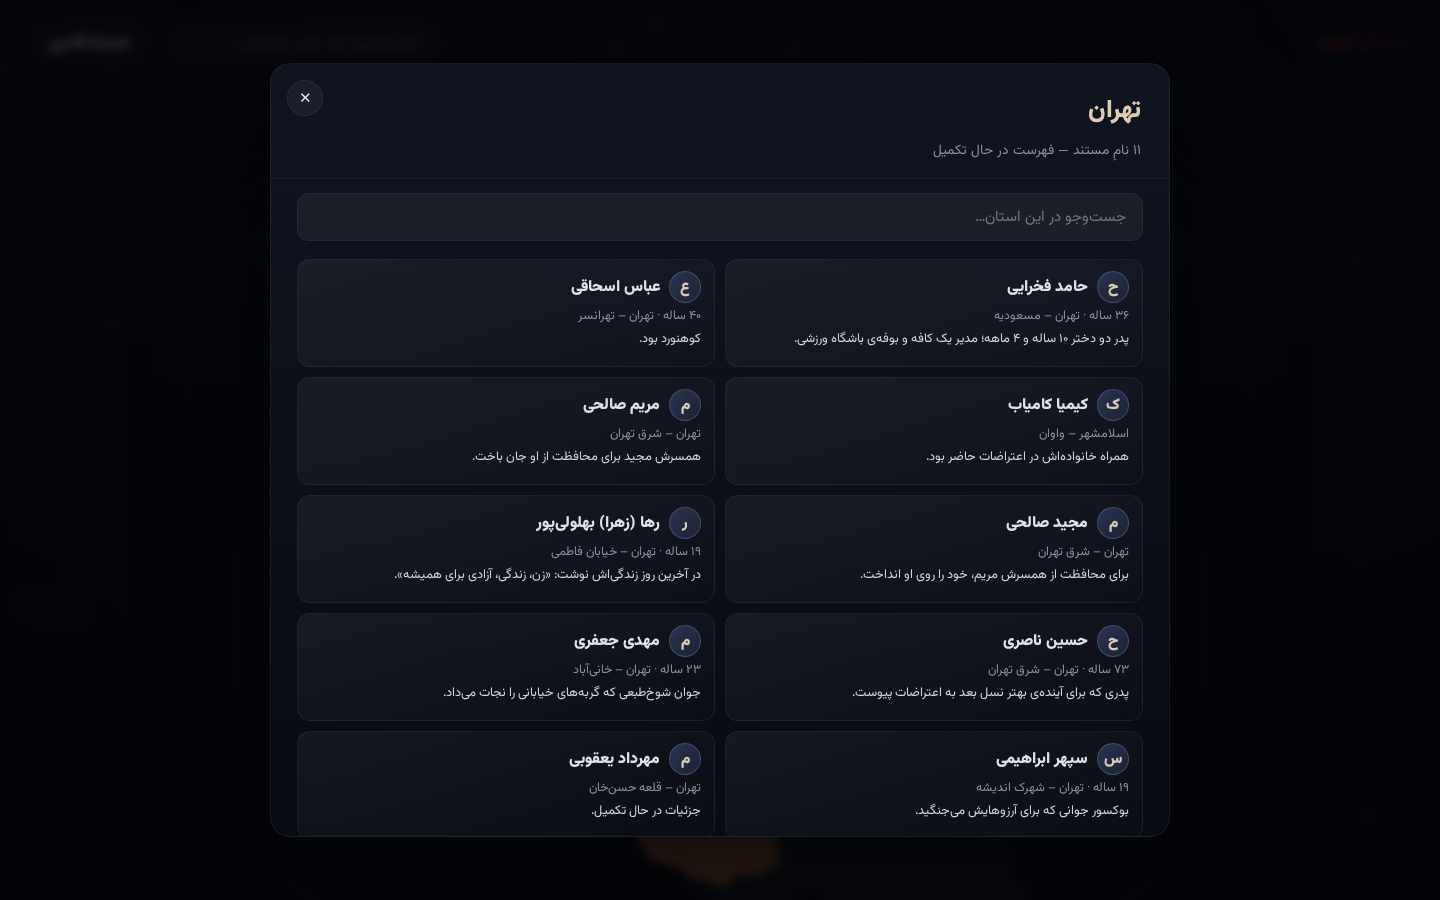
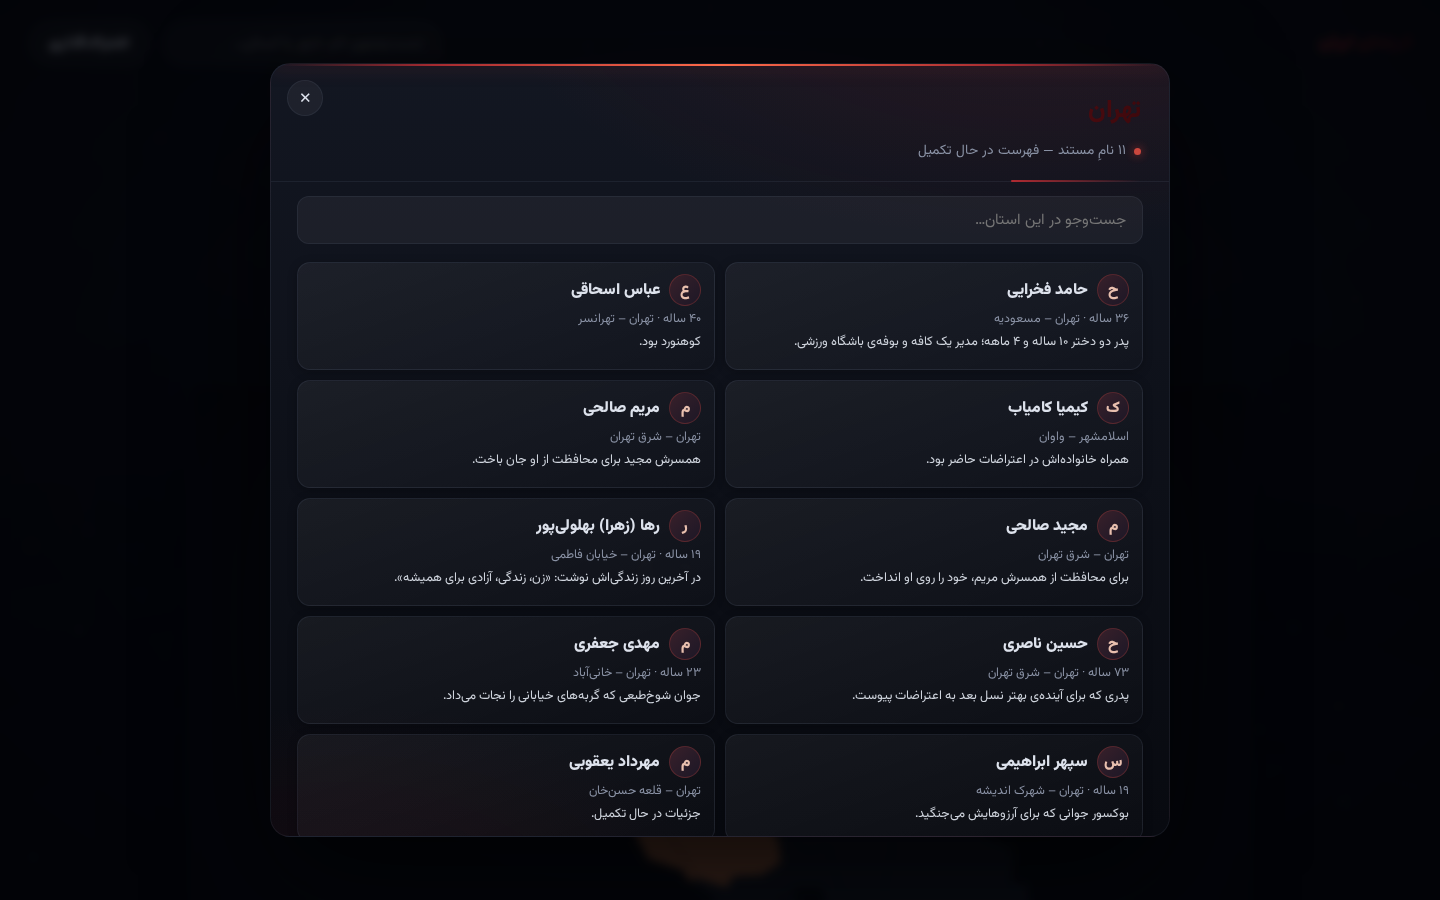
ارتقای پاپآپها و افزودن بهاره شاهمهری
- پنجرهی استان: پسزمینهی گرادیانی سرخ، نوار نورانی بالای پنجره، نام استان با
  گرادیان سرخ، نشانگر تپنده و ورود پلکانی کارتها
- پنجرهی یادنامه: هالهی سرخ، حلقهی نور تپنده دور آواتار، نام با گرادیان سرخ و
  جدول اطلاعات (تولد، محل زندگی، محل شهادت، شغل، تاریخ، سن)
- افزودن بهاره شاهمهری (۱۷ ساله، نیشابور) با عکس و اطلاعات کامل از
  گزارش سازمان حقوق بشر ایران؛ ساختار ویدیو هم آماده است
- بازآزمایی کارایی با ۵۰۰۰ نام: بدون بههمریختگی

diff --git a/css/style.css b/css/style.css
@@ -330,3 +330,111 @@ body {
 @media (prefers-reduced-motion: reduce) {
   * { animation: none !important; transition: none !important; }
 }
+
+/* =====================================================================
+   ارتقای پاپآپها — زندهتر، ولی با حالوهوای سوگ و انتقام
+   ===================================================================== */
+
+/* ---------- پنجرهی استان ---------- */
+.modal-dialog {
+  background:
+    radial-gradient(900px 420px at 85% -10%, rgba(150, 26, 32, .16) 0%, transparent 60%),
+    radial-gradient(700px 380px at 8% 110%, rgba(120, 18, 24, .12) 0%, transparent 55%),
+    linear-gradient(180deg, rgba(19, 23, 34, .99), rgba(8, 10, 16, .99));
+}
+.modal-dialog::before {
+  content: ""; position: absolute; top: 0; left: 0; right: 0; height: 2px; z-index: 4;
+  background: linear-gradient(90deg, transparent 0%, #a52a30 18%, #ff6b4a 50%, #a52a30 82%, transparent 100%);
+  box-shadow: 0 0 18px rgba(214, 58, 54, .55);
+}
+.modal-head { position: relative; }
+.modal-head::after {
+  content: ""; position: absolute; right: 28px; bottom: -1px; width: 130px; height: 2px;
+  background: linear-gradient(90deg, #b02a31, rgba(176, 42, 49, 0));
+  border-radius: 2px;
+}
+.modal-province {
+  background: linear-gradient(115deg, #d0493f 0%, #8a181f 55%, #3c080c 100%);
+  -webkit-background-clip: text; background-clip: text; color: transparent;
+}
+.modal-count { display: inline-flex; align-items: center; gap: 8px; }
+.modal-count::before {
+  content: ""; width: 7px; height: 7px; border-radius: 50%;
+  background: #d0493f; box-shadow: 0 0 10px rgba(214, 58, 54, .8);
+  animation: countPulse 2.4s ease-in-out infinite;
+}
+@keyframes countPulse { 0%,100% { opacity: .5; } 50% { opacity: 1; } }
+
+/* ---------- کارتهای نام: ورود پلکانی و هاور زنده ---------- */
+.v-content.anim .v-cell {
+  animation: cellIn .5s cubic-bezier(.2,.8,.2,1) both;
+  animation-delay: calc(min(var(--i, 0), 30) * 26ms);
+}
+@keyframes cellIn {
+  from { opacity: 0; transform: translateY(12px) scale(.97); }
+  to { opacity: 1; transform: none; }
+}
+.v-cell {
+  background: linear-gradient(160deg, rgba(255,255,255,.055), rgba(255,255,255,.014));
+  border: 1px solid rgba(150, 170, 205, .1);
+  box-shadow: 0 2px 10px rgba(0,0,0,.25);
+}
+.v-cell:hover {
+  border-color: rgba(208, 73, 63, .55);
+  box-shadow: 0 12px 30px rgba(0,0,0,.5), 0 0 0 1px rgba(208,73,63,.22), 0 0 22px rgba(208, 73, 63, .14);
+  transform: translateY(-3px);
+}
+.v-cell:hover .v-name { color: #f2d0c8; }
+.v-avatar {
+  background: linear-gradient(135deg, #38202a, #1c1726);
+  border: 1px solid rgba(208, 73, 63, .28);
+  color: #e8bfae;
+}
+.v-cell:hover .v-avatar { box-shadow: 0 0 14px rgba(208, 73, 63, .4); }
+
+/* ---------- پنجرهی یادنامه ---------- */
+.detail-dialog {
+  background:
+    radial-gradient(420px 260px at 50% -8%, rgba(150, 26, 32, .2) 0%, transparent 62%),
+    linear-gradient(180deg, rgba(22, 25, 36, .99), rgba(9, 11, 18, .99));
+  border: 1px solid rgba(150, 170, 205, .12);
+  box-shadow: 0 40px 120px rgba(0,0,0,.8), 0 0 90px rgba(150, 26, 32, .14);
+}
+.detail-avatar {
+  animation: avatarPulse 3.2s ease-in-out infinite;
+  background: linear-gradient(135deg, #3a2430, #1a1526);
+  border-color: rgba(208, 73, 63, .35);
+  color: #ecc2b2;
+}
+@keyframes avatarPulse {
+  0%,100% { box-shadow: 0 0 0 0 rgba(208, 73, 63, .26), 0 0 0 6px rgba(180,200,230,.05); }
+  50% { box-shadow: 0 0 0 9px rgba(208, 73, 63, .05), 0 0 26px rgba(208, 73, 63, .32), 0 0 0 6px rgba(180,200,230,.05); }
+}
+.detail-name {
+  background: linear-gradient(115deg, #d0493f 0%, #8a181f 55%, #3c080c 100%);
+  -webkit-background-clip: text; background-clip: text; color: transparent;
+}
+
+/* جدول اطلاعات (تولد، محل زندگی، محل شهادت، شغل…) */
+.detail-info { display: flex; flex-wrap: wrap; justify-content: center; gap: 8px; margin: 0 0 6px; }
+.detail-info:empty { display: none; }
+.info-chip {
+  display: flex; flex-direction: column; align-items: center; gap: 1px;
+  background: rgba(255,255,255,.035); border: 1px solid var(--line); border-radius: 12px;
+  padding: 8px 14px; min-width: 88px;
+  transition: border-color .2s, background .2s;
+}
+.info-chip:hover { border-color: rgba(208, 73, 63, .35); background: rgba(208, 73, 63, .06); }
+.info-k { font-size: .66rem; color: var(--faint); letter-spacing: .3px; }
+.info-v { font-size: .84rem; font-weight: 700; color: var(--ink); }
+
+/* قاب رسانه */
+.media-photo {
+  border: 1px solid rgba(150,170,205,.14);
+  box-shadow: 0 18px 50px rgba(0,0,0,.55), 0 0 40px rgba(150, 26, 32, .12);
+}
+.media-video { border: 1px solid rgba(150,170,205,.14); box-shadow: 0 18px 50px rgba(0,0,0,.55); }
+
+/* امضای یادبود */
+.detail-tribute { color: #b98b77; }
+.detail-tribute::before, .detail-tribute::after { content: " ─ "; color: rgba(185,139,119,.4); }

diff --git a/data/victims.js b/data/victims.js
@@ -16,6 +16,10 @@
  *    dateEn:    "2026-01-09",      // تاریخ میلادی (اختیاری)
  *    note:      "یک جمله دربارهی او", // شرح کوتاه و محترمانه
  *    source:    "بیبیسی فارسی",  // منبع مستند
+ *    born:      "۱۹ اردیبهشت ۱۳۸۷", // (اختیاری) تاریخ تولد
+ *    lived:     "نیشابور",          // (اختیاری) محل زندگی
+ *    killedAt:  "نیشابور – فرحبخش غربی", // (اختیاری) محل دقیق شهادت
+ *    occupation:"دانشآموز رشته گرافیک", // (اختیاری) شغل/تحصیل
  *    photo:     "https://.../a.jpg", // (اختیاری) عکسِ او
  *    video:     "https://.../a.mp4", // (اختیاری) ویدیو/خاطرهی او
  *    audio:     "https://.../a.mp3"  // (اختیاری) صدا/روایت خانواده
@@ -192,12 +196,26 @@ window.VICTIMS_DATA = {
       note: "همراه خانواده، داخل خودروی شخصی هدف شلیک قرار گرفت.",
       source: "گزارشهای حقوقبشری",
     },
-    {
-      id: "v021", name: "دانیال مصطفوی", age: null, gender: "m",
-      provinceId: "IR-32", city: "البرز – کرج",
-      dateFa: "۱۴۰۴/۱۰/۱۹", dateEn: "2026-01-09",
-      note: "همراه خانواده، داخل خودروی شخصی هدف شلیک قرار گرفت.",
-      source: "گزارشهای حقوقبشری",
-    },
+      {
+        id: "v021", name: "دانیال مصطفوی", age: null, gender: "m",
+        provinceId: "IR-32", city: "البرز – کرج",
+        dateFa: "۱۴۰۴/۱۰/۱۹", dateEn: "2026-01-09",
+        note: "همراه خانواده، داخل خودروی شخصی هدف شلیک قرار گرفت.",
+        source: "گزارشهای حقوقبشری",
+      },
+      {
+        id: "v022", name: "بهاره شاهمهری", age: 17, gender: "f",
+        provinceId: "IR-30", city: "نیشابور",
+        born: "۱۹ اردیبهشت ۱۳۸۷",
+        lived: "نیشابور",
+        killedAt: "نیشابور – محدوده فرحبخش غربی (نزدیک میدان آزادی)",
+        occupation: "دانشآموز سال دوازدهم رشته گرافیک و آرایشگر",
+        dateFa: "۱۴۰۴/۱۰/۱۹", dateEn: "2026-01-09",
+        note: "شامگاه ۱۹ دی، هنگام بازگشت به خانه هدف شلیک تکتیرانداز قرار گرفت؛ گلوله از پشت وارد بدنش شد. او همراه مادرش، پس از یک ساعت پناه گرفتن در خانهی همسایه، در راه بازگشت به منزل کشته شد. پیکرش در سردخانهی بیمارستان حکیم نیشابور ثبت شده بود.",
+        source: "سازمان حقوق بشر ایران",
+        photo: "assets/media/bahareh-shahmahri.jpg",
+        // video: "assets/media/bahareh-shahmahri.mp4",
+        // ↑ ویدیوی لحظهی شلیک: فایل را در پوشهی assets/media قرار دهید و این خط را از کامنت خارج کنید
+      },
   ],
 };

diff --git a/js/app.js b/js/app.js
@@ -186,6 +186,7 @@
      پنجرهی استان — لیست مجازی
      ===================================================================== */
   const CELL_H = 108, GAP = 10, ROW_H = CELL_H + GAP;
+  let firstRenderDone = false;
 
   /* تعداد ستونها: ۳ در دسکتاپ، ۲ در تبلت، ۱ در موبایل */
   function calcCols(width) {
@@ -211,6 +212,7 @@
     document.body.style.overflow = 'hidden';
     highlightProvince(pid);
     modalList.scrollTop = 0;
+    firstRenderDone = false;
     renderList();
     if (opts.focusId) {
       scrollToVictim(opts.focusId);
@@ -251,6 +253,7 @@
       contentEl.className = 'v-content';
       modalList.appendChild(contentEl);
     }
+    contentEl.classList.toggle('anim', !firstRenderDone);
     contentEl.innerHTML = '';
 
     const innerW = contentEl.clientWidth;
@@ -277,6 +280,7 @@
         cell.style.top = (r * ROW_H) + 'px';
         cell.style.width = colW + 'px';
         cell.style.height = CELL_H + 'px';
+        cell.style.setProperty('--i', idx);
         cell.innerHTML =
           '<span class="v-top">' +
             '<span class="v-avatar">' + esc((v.name || '؟').trim().charAt(0)) + '</span>' +
@@ -291,6 +295,7 @@
     /* بازیابی موقعیت اسکرول: مرورگر هنگام بازسازی محتوا
        ممکن است آن را صفر کند */
     modalList.scrollTop = prevScroll;
+    firstRenderDone = true;
   }
 
   function onListScroll() {
@@ -337,12 +342,25 @@
     $('#detailAvatar').textContent = (v.name || '؟').trim().charAt(0);
     $('#detailName').textContent = v.name;
     $('#detailMeta').textContent = [
-      v.age ? toFa(v.age) + ' ساله' : 'سن نامشخص',
       v.city,
       v.dateFa ? toFa(v.dateFa) : ''
     ].filter(Boolean).join(' · ');
     $('#detailNote').textContent = v.note || 'جزئیات در حال تکمیل.';
     $('#detailSrc').textContent = 'منبع: ' + (v.source || 'نامشخص');
+
+    /* جدول اطلاعات: تولد، محل زندگی، محل شهادت، شغل، تاریخ، سن */
+    const infoRows = [];
+    if (v.born) infoRows.push(['تاریخ تولد', v.born]);
+    if (v.lived) infoRows.push(['محل زندگی', v.lived]);
+    if (v.killedAt) infoRows.push(['محل شهادت', v.killedAt]);
+    if (v.occupation) infoRows.push(['شغل / تحصیل', v.occupation]);
+    if (v.dateFa) infoRows.push(['تاریخ شهادت', toFa(v.dateFa)]);
+    if (v.age) infoRows.push(['سن', toFa(v.age) + ' ساله']);
+    const infoEl = $('#detailInfo');
+    infoEl.innerHTML = infoRows.map((r) =>
+      '<span class="info-chip"><span class="info-k">' + esc(r[0]) + '</span>' +
+      '<span class="info-v">' + esc(r[1]) + '</span></span>'
+    ).join('');
 
     /* رسانههای اختیاری: ویدیو، عکس یا صدا */
     const media = $('#detailMedia');

diff --git a/index.html b/index.html
@@ -76,10 +76,11 @@
     <h3 class="detail-name" id="detailName"></h3>
     <div class="detail-meta" id="detailMeta"></div>
     <div id="detailMedia" class="detail-media hidden"></div>
+    <div class="detail-info" id="detailInfo"></div>
     <div class="detail-divider"></div>
     <p class="detail-note" id="detailNote"></p>
     <div class="detail-src" id="detailSrc"></div>
-    <p class="detail-tribute">یادش گرامی</p>
+    <p class="detail-tribute">یادش گرامی 🕊</p>
   </div>
 </div>
 

diff --git a/README.md b/README.md
@@ -46,13 +46,19 @@ farzand-iran/
   dateEn: "2026-01-09",       // تاریخ میلادی (اختیاری)
   note: "یک جمله دربارهی او", // شرح کوتاه
   source: "بیبیسی فارسی",   // منبع مستند
+  born: "۱۹ اردیبهشت ۱۳۸۷",  // (اختیاری) تاریخ تولد
+  lived: "نیشابور",           // (اختیاری) محل زندگی
+  killedAt: "نیشابور – فرحبخش غربی", // (اختیاری) محل دقیق شهادت
+  occupation: "دانشآموز رشته گرافیک", // (اختیاری) شغل/تحصیل
   photo: "https://.../a.jpg", // (اختیاری) عکس
   video: "https://.../a.mp4", // (اختیاری) ویدیو
   audio: "https://.../a.mp3"  // (اختیاری) صدا
 }
 ```
 
-فیلدهای `photo`، `video` و `audio` اختیاریاند. اگر `video` باشد در پنجرهی یادنامه یک پخشکنندهی ویدیو، اگر `photo` باشد عکس، و اگر `audio` باشد پخشکنندهی صدا نمایش داده میشود (فایل صدا میتواند همزمان با عکس هم باشد).
+فیلدهای `born`، `lived`، `killedAt` و `occupation` در یادنامه بهصورت جدول اطلاعات نمایش داده میشوند.
+
+فیلدهای `photo`، `video` و `audio` اختیاریاند. اگر `video` باشد در پنجرهی یادنامه یک پخشکنندهی ویدیو، اگر `photo` باشد عکس، و اگر `audio` باشد پخشکنندهی صدا نمایش داده میشود (فایل صدا میتواند همزمان با عکس هم باشد). فایلهای محلی را در پوشهی `assets/media/` بگذارید و آدرس نسبی بدهید (مثل `assets/media/bahareh-shahmahri.jpg`).
 
 ### کد استانها
 
